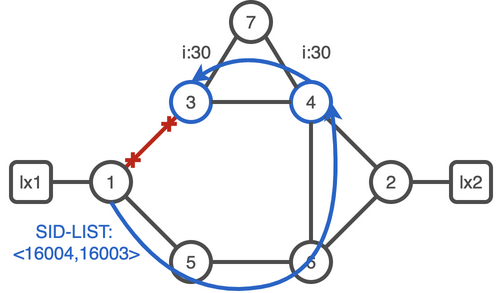
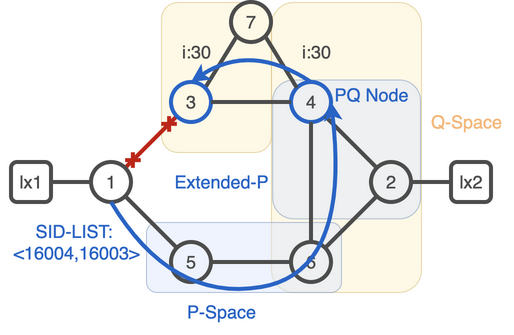
update Ti-LFA

Changed region(s): [[0.0, 0.0, 0.998, 1.0]]

diff --git a/03.ti-lfa.md b/03.ti-lfa.md
@@ -343,9 +343,6 @@ Verify backup path in RIB. ISIS installs the backup path in RIB to reach each de
 show ip route
 ```
 ```
-RP/0/RP0/CPU0:xrd-1#sh ip route
-Fri Oct 28 08:51:09.765 UTC
-
 Codes: C - connected, S - static, R - RIP, B - BGP, (>) - Diversion path
        D - EIGRP, EX - EIGRP external, O - OSPF, IA - OSPF inter area
        N1 - OSPF NSSA external type 1, N2 - OSPF NSSA external type 2
@@ -448,9 +445,6 @@ Label  Label       or ID              Interface                    Switched
 show isis fast-reroute 3.3.3.3/32 detail 
 ```
 ```
-RP/0/RP0/CPU0:xrd-1#show isis fast-reroute 3.3.3.3/32 detail 
-Wed Nov  2 16:33:36.752 UTC
-
 L2 3.3.3.3/32 [10/115] Label: 16003, medium priority
    Installed Nov 02 16:33:33.911 for 00:00:03
      via 100.1.3.3, GigabitEthernet0/0/0/0, Label: ImpNull, xrd-3, SRGB Base: 16000, Weight: 0
@@ -461,18 +455,42 @@ L2 3.3.3.3/32 [10/115] Label: 16003, medium priority
        P: No, TM: 40, LC: No, NP: No, D: No, SRLG: Yes
      src xrd-3.00-00, 3.3.3.3, prefix-SID index 3, R:0 N:1 P:0 E:0 V:0 L:0, Alg:0
 ```
-What's a 'P node' ?
+:question: Is xrd-4 only a 'P node' ?
+
+## Task 2. Remote-LFA
+
+To compute a back-up next hop, TI-LFA requires the computation of different node sets calleds `spaces`.  
+
+| Concept          | Description                                                                                                                                                                                 |
+|------------------|---------------------------------------------------------------------------------------------------------------------------------------------------------------------------------------------|
+| P space          | The set of nodes reachable by the source node of a protected link, using the Constrained Shortest Path First (CSPF) topology without crossing the protected link.                           |
+| Extended-P space | The set of nodes reachable by the `direct neighbors` of the source node of a protected link, using the Constrained Shortest Path First (CSPF) topology without crossing the protected link. |                                                                                                |                                                                                                                                                                  |
+| Q Space          | The set of nodes reachable by the destination node of a protected link, using the CSPF topology without crossing the protected link.                                                        |
+| PQ Node          | A node in both P and Q space. The further node on the natural post-convergence path is elected.                                                                                             |                                                                         |                                                                                                                                     |                                                                                                                                                           |
+
 
 ![](images/4.png)
+
+
+Let's compute the different space when we consider a link failure between xrd-1 and xrd-3.
+* Routers xrd-5 and xrd-6 are part of xrd-1 `P space`, they are reachable to xrd-1 without crossing the link xrd-1/xrd-3.
+* Router xrd-2 is not part of xrd-1 P space as one of it's ECMP path is crossing link xrd-1/xrd-3.
+* Router xrd-2 and xrd-4 are part of xrd-1 `extended P space`. Router xrd-5 - direct neighbor of xrd-1 - can reach xrd-2 and xrd-4 without crossing the link xrd-1/xrd-3
+* Router xrd-3 can reach : xrd-2,xrd-4,xrd-6,xrd-7 without crossing link xrd-1/xrd-3, they are part of the `Q space`
+* Router xrd-4 is the furthest node on the natural post-convergence IGP path it's selected as PQ Node.
 
 TI-LFA computes the post-convergence path on xrd-1 for destination xrd-3 by computing the IGP the shortest path to xrd-3 on the topology with the link xrd-1 to xrd-3 removed. 
 TI-LFA then computes the segment-list required to steer the packets on that backup path and finds that one intermediate nodes is needed: xrd-4 (the PQ-node). When traffic gets to xrd-4 the shortest path to xrd-2 is unambiguous. The TI-LFA computation on xrd-1 for destination xrd-3 (post-convergence path) results in two additional labels to be imposed on protected packets steered on the backup path:
 * Label to node 4 : 16004
 * Labe to destination : 16003
 
+
+:keyboard: xrd-1
+```bash
+show cef 3.3.3.3/32 detail 
 ```
-RP/0/RP0/CPU0:xrd-1#sh cef 3.3.3.3/32 detail 
-Fri Oct 28 09:17:51.022 UTC
+
+```
 3.3.3.3/32, version 90, labeled SR, internal 0x1000001 0x8110 (ptr 0x87166fa0) [1], 0x600 (0x877c9c78), 0xa28 (0x897830a8)
  Updated Oct 28 09:09:26.709 
  local adjacency to GigabitEthernet0/0/0/0
@@ -503,9 +521,11 @@ Fri Oct 28 09:17:51.022 UTC
 Notice that not only incoming unlabeled IP traffic is protected (as shown in the CEF entry) but also incoming labeled traffic. 
 The output of show mpls forwarding displays the primary path and backup path for packets with the prefix-SID label of xrd-3, 16003
 
+:keyboard: xrd-1
+```bash
+show mpls forwarding labels 16003 detail 
 ```
-RP/0/RP0/CPU0:xrd-1#sh mpls forwarding labels 16003 detail 
-Fri Oct 28 09:22:43.953 UTC
+```
 Local  Outgoing    Prefix             Outgoing     Next Hop        Bytes       
 Label  Label       or ID              Interface                    Switched    
 ------ ----------- ------------------ ------------ --------------- ------------
@@ -531,15 +551,17 @@ Label  Label       or ID              Interface                    Switched
      (!): FRR pure backup
 
   Traffic-Matrix Packets/Bytes Switched: 0/0
-RP/0/RP0/CPU0:xrd-1#
 ```
 
 Note by enabling TI-LFA on a link, the protected adjacency-SIDs of that link are also protected.
-The protected adjacency-SID for Xrv-1 to XRv-3 (24002) is protected via the link to XRv-5. Verify the backup path in the MPLS forwarding table. The backup path goes via PQ-node XRv-6. Verify adjacency protection in the MPLS forwarding table.
+The protected adjacency-SID for Xrv-1 to XRv-3 (24000) is protected via the link to XRv-5. Verify the backup path in the MPLS forwarding table. The backup path goes via PQ-node XRv-4. Verify adjacency protection in the MPLS forwarding table.
 
+:Note: Adj-SID may differ in your lab
+:keyboard: xrd-1
+```bash
+show mpls forwarding labels 24000 detail 
 ```
-RP/0/RP0/CPU0:xrd-1#sh mpls forwarding labels 24000 detail 
-Fri Oct 28 09:27:25.410 UTC
+```
 Local  Outgoing    Prefix             Outgoing     Next Hop        Bytes       
 Label  Label       or ID              Interface                    Switched    
 ------ ----------- ------------------ ------------ --------------- ------------
@@ -565,10 +587,13 @@ Label  Label       or ID              Interface                    Switched
      (!): FRR pure backup
 ```
 
-The IPv4 protected adjacency-SID for the adjacency to XRv-3 is 24002 in the output. Notice that the MPLS forwarding entry of the adjacency-SID shows the primary path and the backup path. The backup path for an adjacency-SID steers the traffic to the remote end of the link. 
+The IPv4 protected adjacency-SID for the adjacency to XRv-3 is 24000 in the output. Notice that the MPLS forwarding entry of the adjacency-SID shows the primary path and the backup path. The backup path for an adjacency-SID steers the traffic to the remote end of the link. 
+
+:keyboard: xrd-1
+```bash
+show mpls forwarding labels 24000
 ```
-RP/0/RP0/CPU0:xrd-1#sh mpls forwarding labels 24000
-Fri Oct 28 09:29:46.377 UTC
+```
 Local  Outgoing    Prefix             Outgoing     Next Hop        Bytes       
 Label  Label       or ID              Interface                    Switched    
 ------ ----------- ------------------ ------------ --------------- ------------
@@ -576,12 +601,35 @@ Label  Label       or ID              Interface                    Switched
        16004       SR Adj (idx 0)     Gi0/0/0/1    100.1.5.5       0            (!)
 ```
 
+## Task 3. Topology Independent-LFA
 
-On the current IGP weight configuration, xrd-4 is part of the P and Q space it's a PQ Node.
-
-Configure IGP metric 50 between xrd-5 and xrd-6
+For now a PQ node was clearly elected and Remote-LFA was possible. 
+On the current IGP weight configuration, xrd-4 is part of the P and Q space it's a PQ Node. To illustrate the strength of TI-LFA, let's increase the IGP metric between xrd-5 and xrd-6. xrd-6 is no longer part of the P space and is now part of the Q space, leaving the topology without a PQ node let's check what TI-LFA will compute as backup label.
 
 ![](images/5.png)
+
+
+Connect to router xrd-5
+
+```bash
+xrd 5
+```
+
+Configure IGP metric to 50.
+
+:keyboard: xrd-5
+```bash
+router isis core
+ address-family ipv4 unicast
+ !
+ interface GigabitEthernet0/0/0/0
+  address-family ipv4 unicast
+   metric 50
+  !
+ !
+!
+end
+```
 
 :keyboard: xrd-1
 ```bash
@@ -599,3 +647,5 @@ L2 3.3.3.3/32 [10/115] Label: 16003, medium priority
        P: No, TM: 80, LC: No, NP: No, D: No, SRLG: Yes
      src xrd-3.00-00, 3.3.3.3, prefix-SID index 3, R:0 N:1 P:0 E:0 V:0 L:0, Alg:0
 ```
+
+:note: Notice the utilisation of adjacency SID `24003` to force traffic through the high IGP cost link xrd-5/xrd-6, once the traffic is in the `Q space` it's safe to reach `xrd-3` with a single label `16003`.
